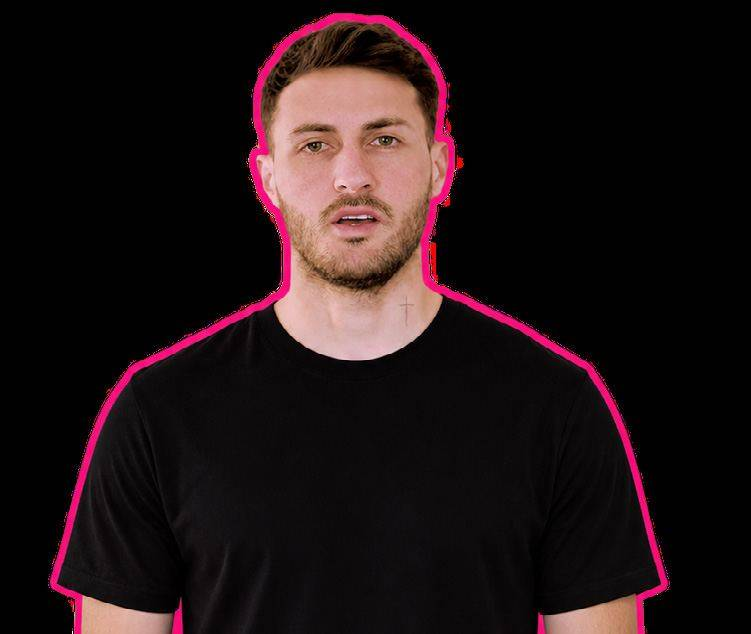
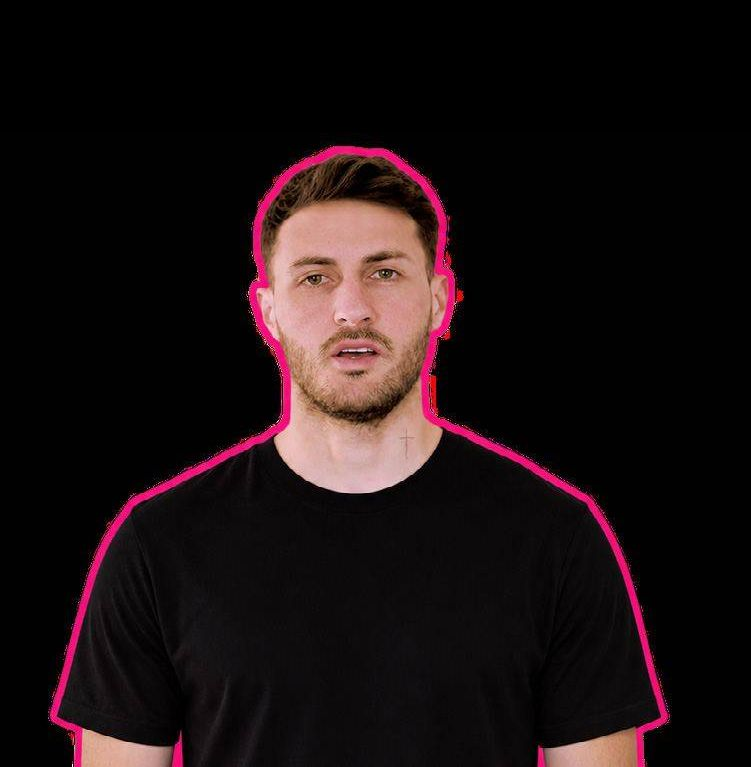
Make ambassador cards the same size
Claude-Session: https://claude.ai/code/session_01W8Qs1Hvrj2qD79Cf5b1JXE

Changed region(s): [[0.0613, 0.0, 0.8881, 0.989], [0.7044, 0.959, 0.7963, 0.989], [0.1531, 0.959, 0.245, 0.989]]

diff --git a/styles.css b/styles.css
@@ -148,7 +148,7 @@ a { color: inherit; }
 /* ---------- Ambassadors ---------- */
 .ambassadors { display: grid; grid-template-columns: repeat(4, 1fr); gap: 20px; }
 .amb { margin: 0; background: #e9e7e4; overflow: hidden; border-radius: 4px; }
-.amb img { width: 100%; height: auto; background: #000; filter: grayscale(1); transform: scale(1.04); transition: filter 0.6s, transform 0.8s var(--ease); }
+.amb img { width: 100%; height: auto; aspect-ratio: 645 / 659; object-fit: cover; object-position: center bottom; background: #000; filter: grayscale(1); transform: scale(1.04); transition: filter 0.6s, transform 0.8s var(--ease); }
 .amb:hover img, .amb.in:hover img { filter: none; transform: scale(1.08); }
 .amb.in img { filter: grayscale(0.15); transform: none; }
 .amb figcaption { font-family: var(--display); font-size: 28px; padding: 14px 16px 16px; line-height: 1; }
